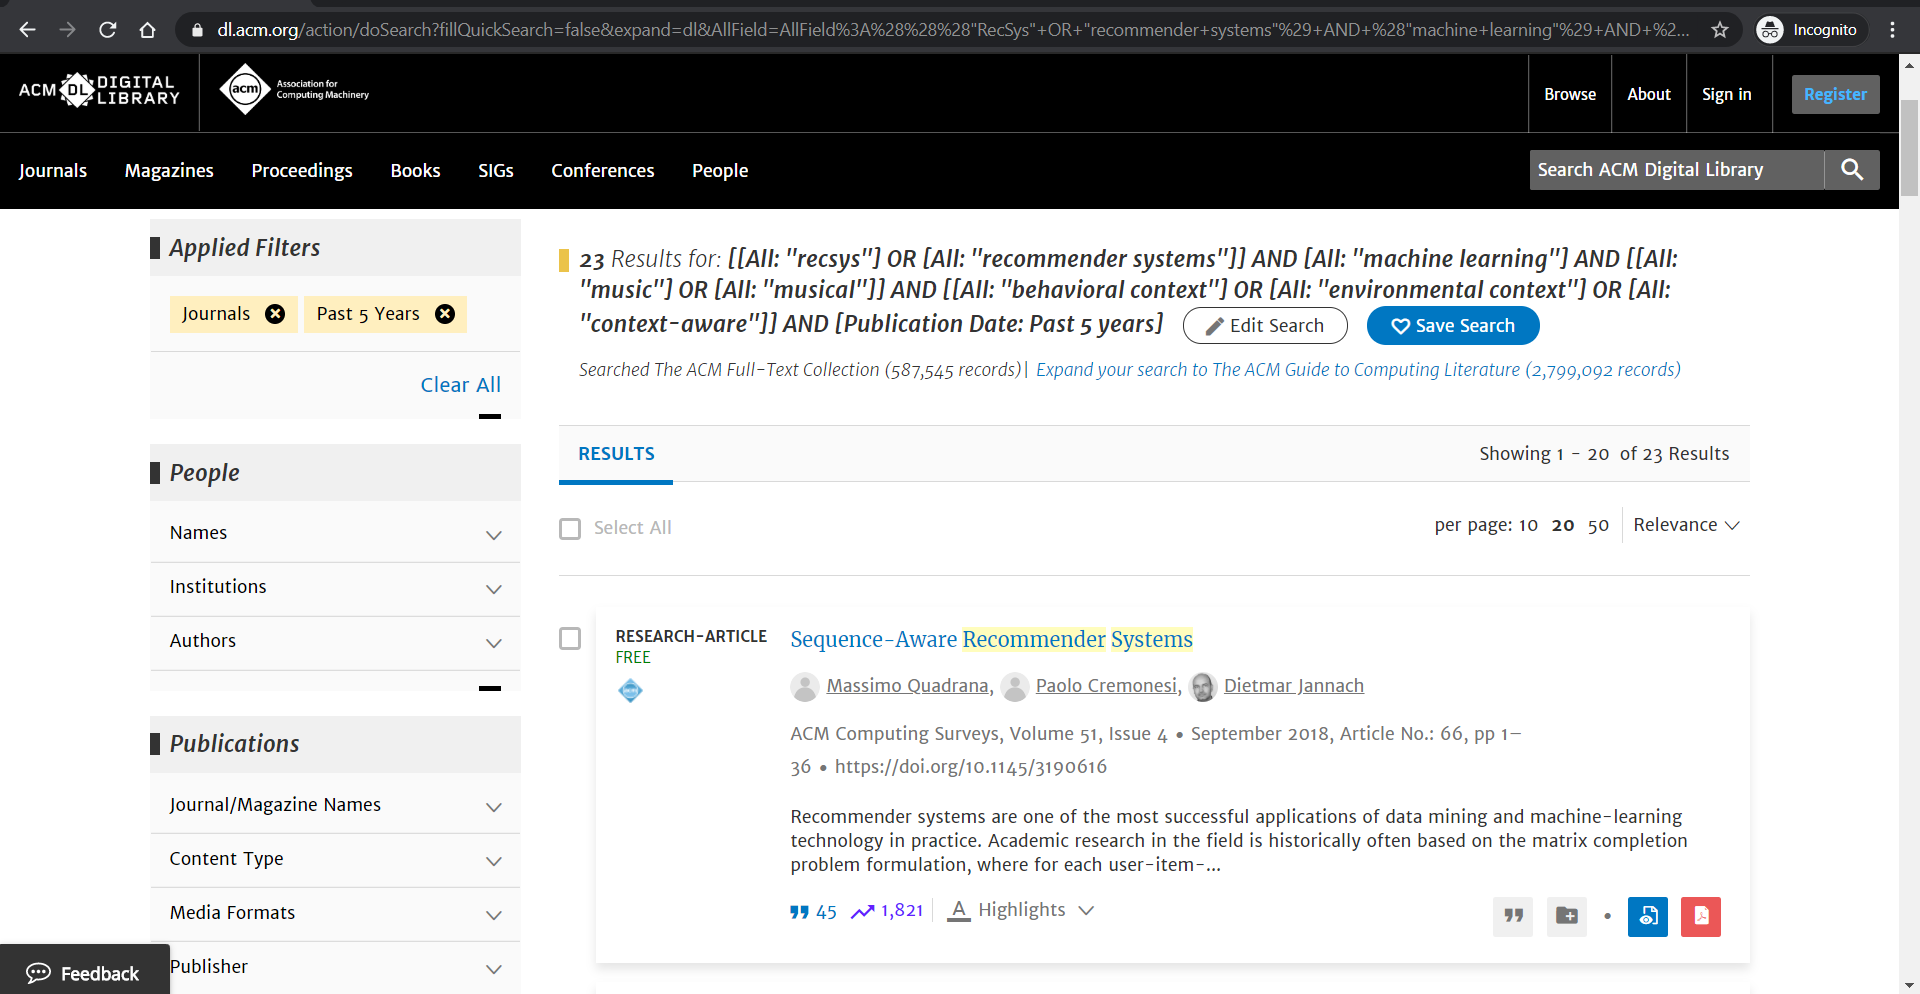
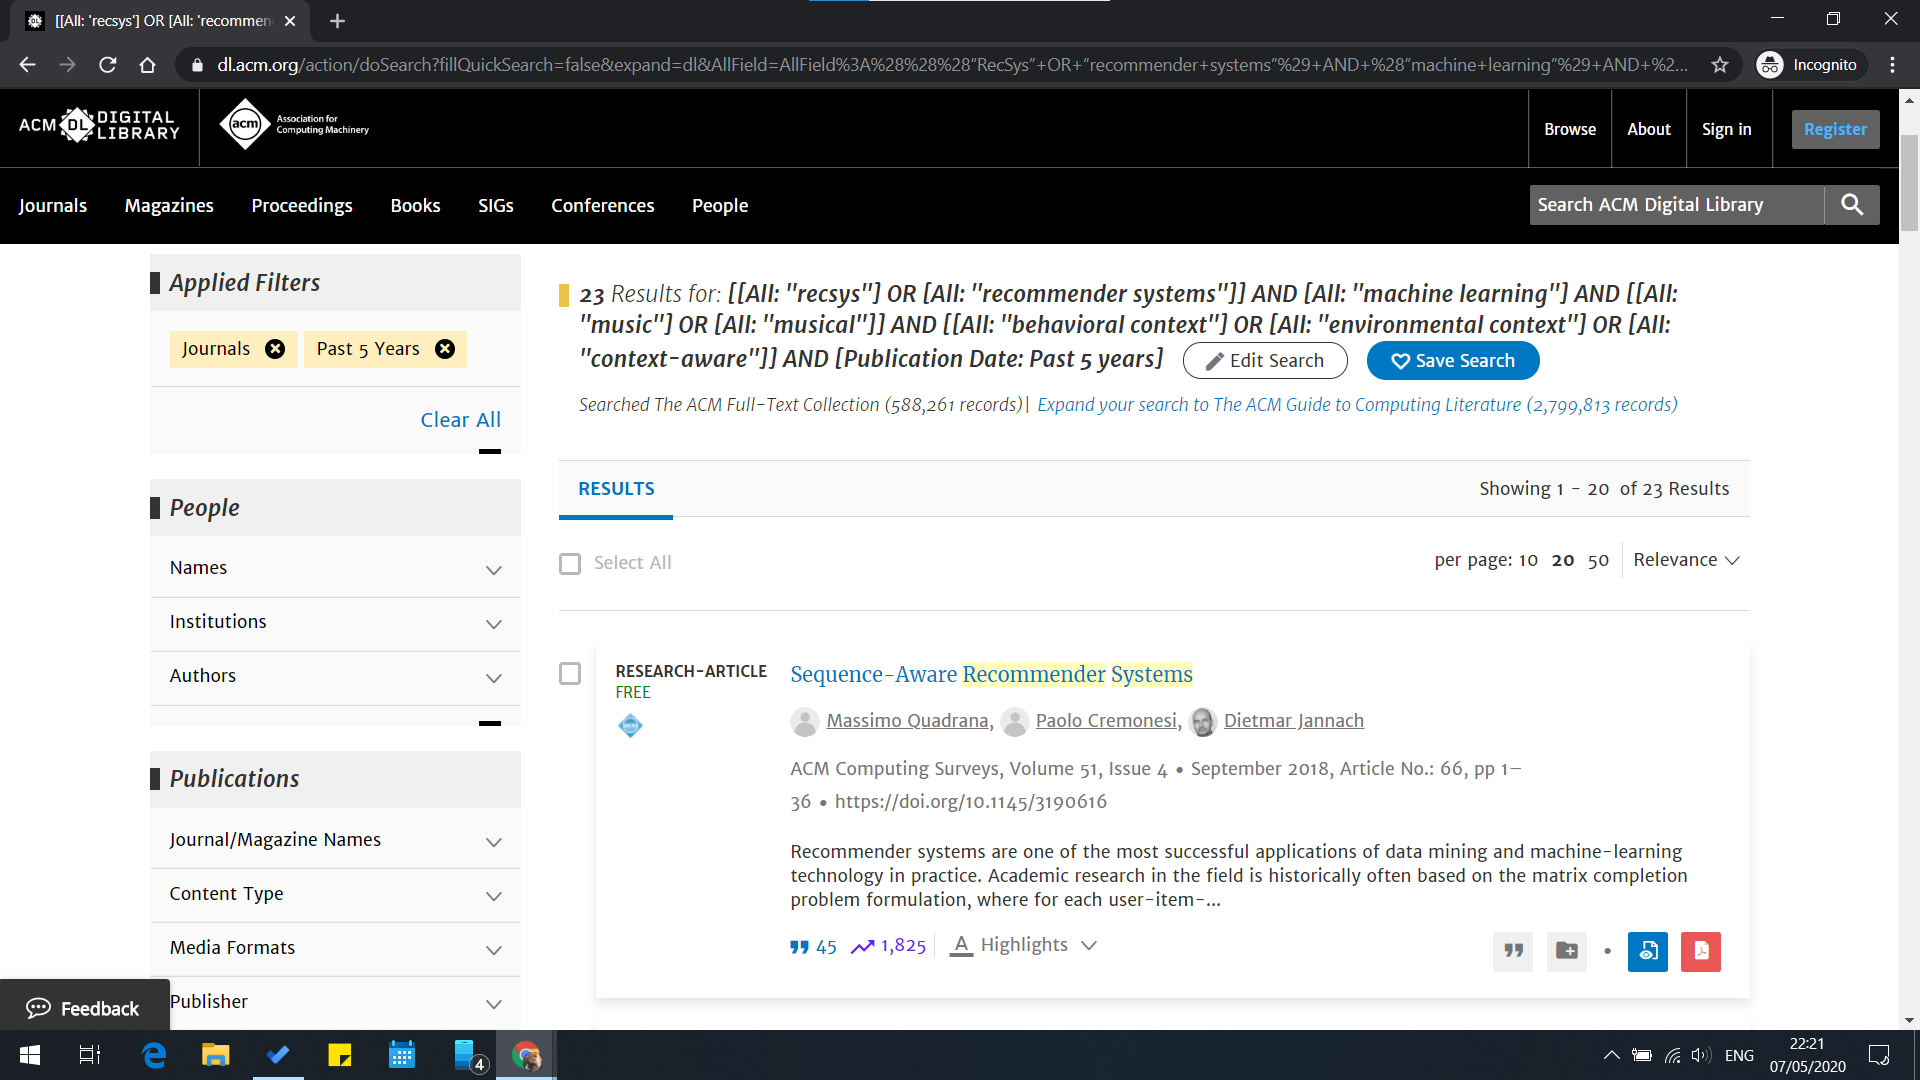
adjust date

diff --git a/tcc-i/main.md b/tcc-i/main.md
@@ -458,7 +458,7 @@ height="2.7in"}
 
 Figura Motor avançado de busca da ACM (próprio, 2020)
 
-No dia 05/05/2020 foi realizado a pesquisa no motor de busca apresentado
+No dia 07/05/2020 foi realizado a pesquisa no motor de busca apresentado
 a partir da *string* de busca pré-definida anteriormente. As Figura 1, 2
 e 3 ilustram esse processo. Todos trouxeram resultados pertinentes ao
 trabalho logo na primeira página da aplicação. A quantidade de
@@ -495,7 +495,7 @@ relacionados a área. (ACM RECSYS COMMUNITY., 2020)
 Os trabalhos
 ------------
 
-Com a busca realizada no dia 05/05/20 no motor da ACM a partir da
+Com a busca realizada no dia 07/05/20 no motor da ACM a partir da
 *string* de busca foram encontrados 83 trabalhos, sendo eles: 23 do tipo
 *jornal* - os quais serão os primeiros a serem trazidos nessa pesquisa -
 e 60 do tipo *proceeding*.
